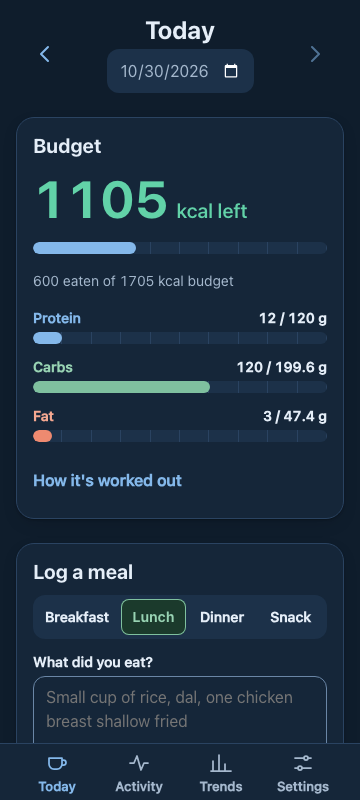
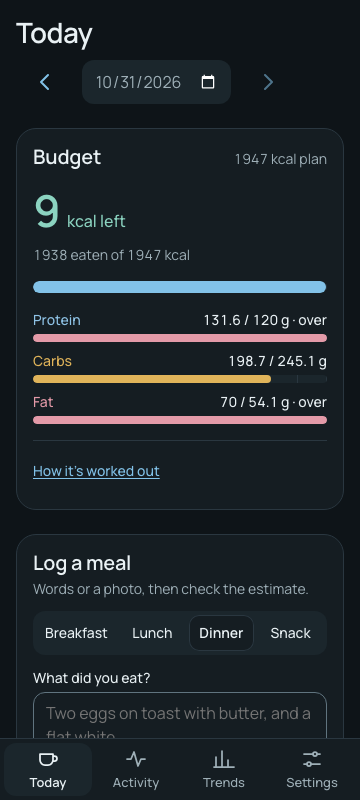
Refresh the UI with the Mineral palette
Move the Pantry layout and Mineral tokens across Today, Activity, Trends and Settings, with self-hosted Manrope, left-aligned page titles, one Activity heading, and a more international demo history. Regenerate the docs screenshots and record the M8 decisions.

diff --git a/web/e2e/screenshots.spec.ts b/web/e2e/screenshots.spec.ts
@@ -7,25 +7,20 @@ import { mkdirSync } from 'node:fs';
 import { join } from 'node:path';
 import { fileURLToPath } from 'node:url';
 import {
-	localDate,
 	login,
 	randomPort,
-	saveProfile,
-	seedDay,
-	seedMeal,
+	seedDemoUser,
 	startCupful,
 	type CupfulServer
 } from './helpers/server.ts';
 
 test.describe.configure({ mode: 'serial' });
 test.skip(!process.env.SCREENSHOTS, 'set SCREENSHOTS=1 to capture docs screenshots');
+test.use({ reducedMotion: 'reduce' });
 
 const OUT = fileURLToPath(new URL('../../docs/screenshots', import.meta.url));
 const port = randomPort();
 test.use({ baseURL: `http://127.0.0.1:${port}` });
-
-const daysAgo = (n: number) =>
-	new Date(Date.now() - n * 86_400_000).toLocaleDateString('en-CA');
 
 let server: CupfulServer;
 
@@ -44,38 +39,21 @@ async function setTheme(page: Page, theme: 'light' | 'dark'): Promise<void> {
 }
 
 test('capture Today in light and dark at 360, then Trends at 1280', async ({ page }) => {
-	await login(page);
-	await saveProfile(page);
-
-	// Two weeks of steps and a slow downward weight curve, so the Trends charts have shape.
-	for (let n = 13; n >= 0; n--) {
-		await seedDay(page, daysAgo(n), {
-			steps: 6200 + ((n * 1100) % 5200),
-			weight_kg: Math.round((80.4 - (13 - n) * 0.11) * 10) / 10
-		});
-	}
-	// Older intake so the Trends intake chart is not a single bar.
-	for (let n = 7; n >= 1; n--) {
-		const date = daysAgo(n);
-		await seedMeal(page, date, 'Greek yogurt, berries and granola', 'breakfast');
-		await seedMeal(page, date, 'Chicken, rice and broccoli bowl', 'lunch');
-	}
-	const today = localDate();
-	await seedMeal(page, today, 'Greek yogurt, berries and granola', 'breakfast');
-	await seedMeal(page, today, 'Chicken, rice and broccoli bowl', 'lunch');
-	await seedMeal(page, today, 'Salmon with roast potatoes and greens', 'dinner');
+	// The demo user has 90 days of meals, budgets, steps and weigh-ins.
+	const demo = seedDemoUser(server, 90);
+	await login(page, demo);
 
 	await page.setViewportSize({ width: 360, height: 800 });
 	await page.goto('/');
 	await expect(page.getByRole('heading', { name: 'Today', level: 1 })).toBeVisible();
-	await expect(page.getByTestId('meal').filter({ hasText: 'Salmon' })).toBeVisible();
+	await expect(page.getByTestId('meal').first()).toBeVisible();
 
 	await setTheme(page, 'light');
-	await expect(page.getByTestId('meal').filter({ hasText: 'Salmon' })).toBeVisible();
+	await expect(page.getByTestId('meal').first()).toBeVisible();
 	await page.screenshot({ path: join(OUT, 'today-360-light.png') });
 
 	await setTheme(page, 'dark');
-	await expect(page.getByTestId('meal').filter({ hasText: 'Salmon' })).toBeVisible();
+	await expect(page.getByTestId('meal').first()).toBeVisible();
 	await page.screenshot({ path: join(OUT, 'today-360-dark.png') });
 
 	// Trends is a wide screen in the docs.

diff --git a/web/src/lib/activity/ActivitySection.svelte b/web/src/lib/activity/ActivitySection.svelte
@@ -27,8 +27,12 @@
 		type Parsed
 	} from './logic.ts';
 
-	let { date, refreshKey, onChanged }: { date: string; refreshKey: number; onChanged: () => void } =
-		$props();
+	let {
+		date,
+		refreshKey,
+		onChanged,
+		heading = true
+	}: { date: string; refreshKey: number; onChanged: () => void; heading?: boolean } = $props();
 
 	let data = $state<Day | null>(null);
 	let loadError = $state('');
@@ -97,9 +101,9 @@
 	}
 </script>
 
-<section class="activity" aria-labelledby="activity-h" aria-busy={data === null && !loadError}>
+<section class="activity" aria-label="Activity" aria-busy={data === null && !loadError}>
 	<header class="head">
-		<h2 id="activity-h">Activity</h2>
+		{#if heading}<h2>Activity</h2>{/if}
 		<p class="saved small" role="status">
 			{#key status}
 				{#if status}<span class="saved-text">{status}</span>{/if}
@@ -124,13 +128,13 @@
 		{#if error}<p class="notice notice-error" role="alert">{error}</p>{/if}
 
 		<div class="stats">
-			<section class="card stat stat-steps" aria-labelledby="steps-h">
+			<div class="card stat stat-steps">
 				<div class="stat-head">
 					<h3 id="steps-h">Steps</h3>
 					{#if d.steps !== null}
-						<span class="chip">{d.steps_source ? sourceLabel(d.steps_source) : 'Manual'}</span>
+						<span class="chip" data-testid="steps-source">{d.steps_source ? sourceLabel(d.steps_source) : 'Manual'}</span>
 					{:else}
-						<span class="chip">Not logged</span>
+						<span class="chip" data-testid="steps-source">Not logged</span>
 					{/if}
 				</div>
 				<div class="figure">
@@ -153,9 +157,9 @@
 						Steps for this day.
 					{/if}
 				</p>
-			</section>
+			</div>
 
-			<section class="card stat stat-gym" aria-labelledby="gym-h">
+			<div class="card stat stat-gym">
 				<div class="stat-head">
 					<h3 id="gym-h">Gym</h3>
 					{#if d.gym_minutes !== null}
@@ -194,9 +198,9 @@
 					</div>
 				</fieldset>
 				<p class="caption">Tap the parts you trained.</p>
-			</section>
+			</div>
 
-			<section class="card stat stat-weight" aria-labelledby="weight-h">
+			<div class="card stat stat-weight">
 				<div class="stat-head">
 					<h3 id="weight-h">Weigh-in</h3>
 					{#if d.weight_kg !== null}
@@ -220,7 +224,7 @@
 					<span class="unit" aria-hidden="true">{unit}</span>
 				</div>
 				<p class="caption">Changes the budget from this day until your next weigh-in.</p>
-			</section>
+			</div>
 		</div>
 	{/if}
 </section>

diff --git a/web/src/lib/DayNav.svelte b/web/src/lib/DayNav.svelte
@@ -22,7 +22,6 @@
 		<svg viewBox="0 0 24 24" aria-hidden="true"><path d="M15 5l-7 7 7 7" /></svg>
 	</button>
 	<div class="current">
-		<h1 aria-live="polite">{dayLabel(day.date, now)}</h1>
 		<label class="visually-hidden" for="day-picker">Date</label>
 		<input id="day-picker" type="date" value={day.date} max={now} onchange={pick} />
 	</div>
@@ -34,6 +33,7 @@
 	>
 		<svg viewBox="0 0 24 24" aria-hidden="true"><path d="M9 5l7 7-7 7" /></svg>
 	</button>
+	<p class="visually-hidden" aria-live="polite">{dayLabel(day.date, now)}</p>
 </nav>
 {#if !isToday}
 	<p class="back"><button class="btn btn-quiet" onclick={() => (day.date = now)}>Back to today</button></p>
@@ -43,21 +43,13 @@
 	.daynav {
 		display: flex;
 		align-items: center;
-		justify-content: space-between;
+		justify-content: flex-end;
 		gap: var(--space-2);
-		max-width: 28rem;
-		margin-inline: auto;
 	}
 	.current {
 		display: flex;
-		flex-direction: column;
 		align-items: center;
-		gap: var(--space-1);
 		min-width: 0;
-	}
-	h1 {
-		font-family: var(--font-numeric);
-		font-size: var(--text-xl);
 	}
 	input {
 		width: auto;
@@ -76,7 +68,7 @@
 		stroke-linejoin: round;
 	}
 	.back {
-		text-align: center;
+		text-align: right;
 		margin-top: calc(-1 * var(--space-2));
 	}
 </style>

diff --git a/web/e2e/helpers/server.ts b/web/e2e/helpers/server.ts
@@ -84,14 +84,14 @@ export async function startCupful(
 }
 
 /**
- * Adds the `demo` user (and one day of their history) with `seed-demo`. It runs against the live
+ * Adds the `demo` user (and `days` of their history) with `seed-demo`. It runs against the live
  * data dir; SQLite is in WAL mode with a busy timeout, so a short CLI write is safe.
  */
-export function seedDemoUser(server: CupfulServer): {
+export function seedDemoUser(server: CupfulServer, days = 1): {
 	username: string;
 	password: string;
 } {
-	const res = spawnSync(BIN, ['seed-demo', '--days', '1', '--seed', '9'], {
+	const res = spawnSync(BIN, ['seed-demo', '--days', String(days), '--seed', '9'], {
 		encoding: 'utf8',
 		env: serverEnv(server.port, server.dataDir, {}),
 		timeout: 60_000,

diff --git a/web/e2e/first-run.test.ts b/web/e2e/first-run.test.ts
@@ -23,8 +23,10 @@ test('first run: setup, Today, stays logged in, theme, logout and login', async 
 	await expect(page.getByRole('heading', { name: 'Today', level: 1 })).toBeVisible();
 	await expect(page.getByRole('heading', { name: 'Log a meal' })).toBeVisible();
 	await expect(page.getByRole('button', { name: 'Next day' })).toBeDisabled();
+	const today = await page.getByLabel('Date').inputValue();
 	await page.getByRole('button', { name: 'Previous day' }).click();
-	await expect(page.getByRole('heading', { name: 'Yesterday' })).toBeVisible();
+	await expect(page.getByLabel('Date')).not.toHaveValue(today);
+	await expect(page.getByRole('button', { name: 'Back to today' })).toBeVisible();
 	await noSideScroll(page);
 
 	await page.reload();

diff --git a/web/e2e/settings.spec.ts b/web/e2e/settings.spec.ts
@@ -100,7 +100,7 @@ test('profile in lb/ft-in gives a budget; providers; about; no Google client', a
 	const about = page.getByRole('region', { name: 'About' });
 	await expect(about.getByText(/Cupful \d+\.\d+\.\d+/)).toBeVisible();
 	await expect(about.getByRole('link', { name: 'Source code' })).toHaveAttribute('href', /^https?:\/\//);
-	await expect(about.getByText('AGPL-3.0-or-later', { exact: false })).toBeVisible();
+	await expect(about.getByText('AGPL-3.0-or-later', { exact: false }).first()).toBeVisible();
 
 	// The e2e server has no Google client configured: the feature is invisible and its routes 404.
 	expect(await (await page.request.get('/api/google')).json()).toEqual({ configured: false });

diff --git a/web/src/routes/+page.svelte b/web/src/routes/+page.svelte
@@ -16,7 +16,10 @@
 <svelte:head><title>Today · Cupful</title></svelte:head>
 
 <div class="today">
-	<div class="nav"><DayNav /></div>
+	<header class="page-head">
+		<h1>Today</h1>
+		<DayNav />
+	</header>
 	<div class="budget"><BudgetCard date={day.date} {refreshKey} /></div>
 	<div class="log">
 		<Composer date={day.date} onSaved={changed} />
@@ -34,8 +37,13 @@
 		grid-template-areas: 'nav' 'budget' 'log' 'meals';
 		grid-template-columns: minmax(0, 1fr);
 	}
-	.nav {
+	.page-head {
 		grid-area: nav;
+		display: flex;
+		align-items: center;
+		justify-content: space-between;
+		gap: var(--space-3);
+		flex-wrap: wrap;
 	}
 	.budget {
 		grid-area: budget;

diff --git a/web/src/routes/activity/+page.svelte b/web/src/routes/activity/+page.svelte
@@ -12,8 +12,11 @@
 <svelte:head><title>Activity · Cupful</title></svelte:head>
 
 <div class="activity stack">
-	<DayNav />
-	<ActivitySection date={day.date} {refreshKey} onChanged={changed} />
+	<header class="page-head">
+		<h1>Activity</h1>
+		<DayNav />
+	</header>
+	<ActivitySection date={day.date} {refreshKey} onChanged={changed} heading={false} />
 	<BudgetCard date={day.date} {refreshKey} />
 </div>
 
@@ -21,5 +24,12 @@
 	.activity {
 		max-width: var(--content-max);
 		margin: 0 auto;
+	}
+	.page-head {
+		display: flex;
+		align-items: center;
+		justify-content: space-between;
+		gap: var(--space-3);
+		flex-wrap: wrap;
 	}
 </style>

diff --git a/web/src/lib/settings/TokensSection.svelte b/web/src/lib/settings/TokensSection.svelte
@@ -80,8 +80,7 @@
 	description="Let an automation, such as an iOS Shortcut, post steps and gym minutes."
 >
 	<p class="small muted">
-		A token lets an automation, such as an iOS Shortcut, post your steps and gym minutes. It can't
-		read anything or overwrite a value you typed yourself. Setup steps are in
+		A token can't read anything or overwrite a value you typed yourself. Setup steps are in
 		<code>docs/shortcuts.md</code> in the source code.
 	</p>
 	{#if !connection.online}

diff --git a/web/e2e/pwa.spec.ts b/web/e2e/pwa.spec.ts
@@ -58,7 +58,7 @@ test('manifest, icons, service worker and offline shell incl. a deep link', asyn
 	};
 	expect(body.name).toBe('Cupful');
 	expect(body.display).toBe('standalone');
-	expect(body.background_color).toBe('#f8f4ec');
+	expect(body.background_color).toBe('#f2f5f6');
 
 	for (const icon of ['/icons/icon-192.png', '/icons/icon-512.png', '/icons/maskable-512.png']) {
 		const res = await page.request.get(icon);

diff --git a/web/e2e/trends.spec.ts b/web/e2e/trends.spec.ts
@@ -20,7 +20,7 @@ async function noSideScroll(page: Page) {
 }
 
 const stepsField = (page: Page) => page.getByLabel('Steps', { exact: true });
-const stepsChip = (page: Page) => page.getByLabel('Steps', { exact: true }).locator('xpath=ancestor::div[contains(@class,"field")]').locator('.chip');
+const stepsChip = (page: Page) => page.getByTestId('steps-source');
 
 test.describe.configure({ mode: 'serial' });
 

diff --git a/server/src/demo.rs b/server/src/demo.rs
@@ -11,20 +11,20 @@ const TIMEZONE: &str = "UTC";
 const BREAKFASTS: &[&[&str]] = &[
     &["Oatmeal, cooked with water", "Milk, whole"],
     &["Egg, scrambled", "Toast, whole wheat"],
-    &["Dosa, plain"],
+    &["Pancakes", "Milk, whole"],
     &["Greek yogurt, plain, whole milk", "Dates, medjool"],
     &["Egg, fried", "Toast, white bread"],
 ];
 const LUNCHES: &[&[&str]] = &[
     &[
         "Rice, white, cooked",
-        "Dal (cooked, with tadka)",
-        "Cauliflower (gobi), boiled",
+        "Chickpeas (chana), boiled",
+        "Tomato, raw",
     ],
     &[
-        "Roti (chapati), whole wheat",
         "Chicken breast, cooked (roasted)",
-        "Spinach (palak), boiled",
+        "Quinoa, cooked",
+        "Broccoli, boiled",
     ],
     &["Quinoa, cooked", "Chickpeas (chana), boiled", "Tomato, raw"],
     &["Pasta, cooked", "Chicken, minced, cooked"],
@@ -35,11 +35,7 @@ const LUNCHES: &[&[&str]] = &[
     ],
 ];
 const DINNERS: &[&[&str]] = &[
-    &[
-        "Roti (chapati), whole wheat",
-        "Dal (cooked, with tadka)",
-        "Okra (bhindi), boiled",
-    ],
+    &["Pasta, cooked", "Chicken, minced, cooked", "Tomato, raw"],
     &["Salmon, cooked", "Potato, boiled", "Green beans, boiled"],
     &[
         "Rice, white, cooked",
